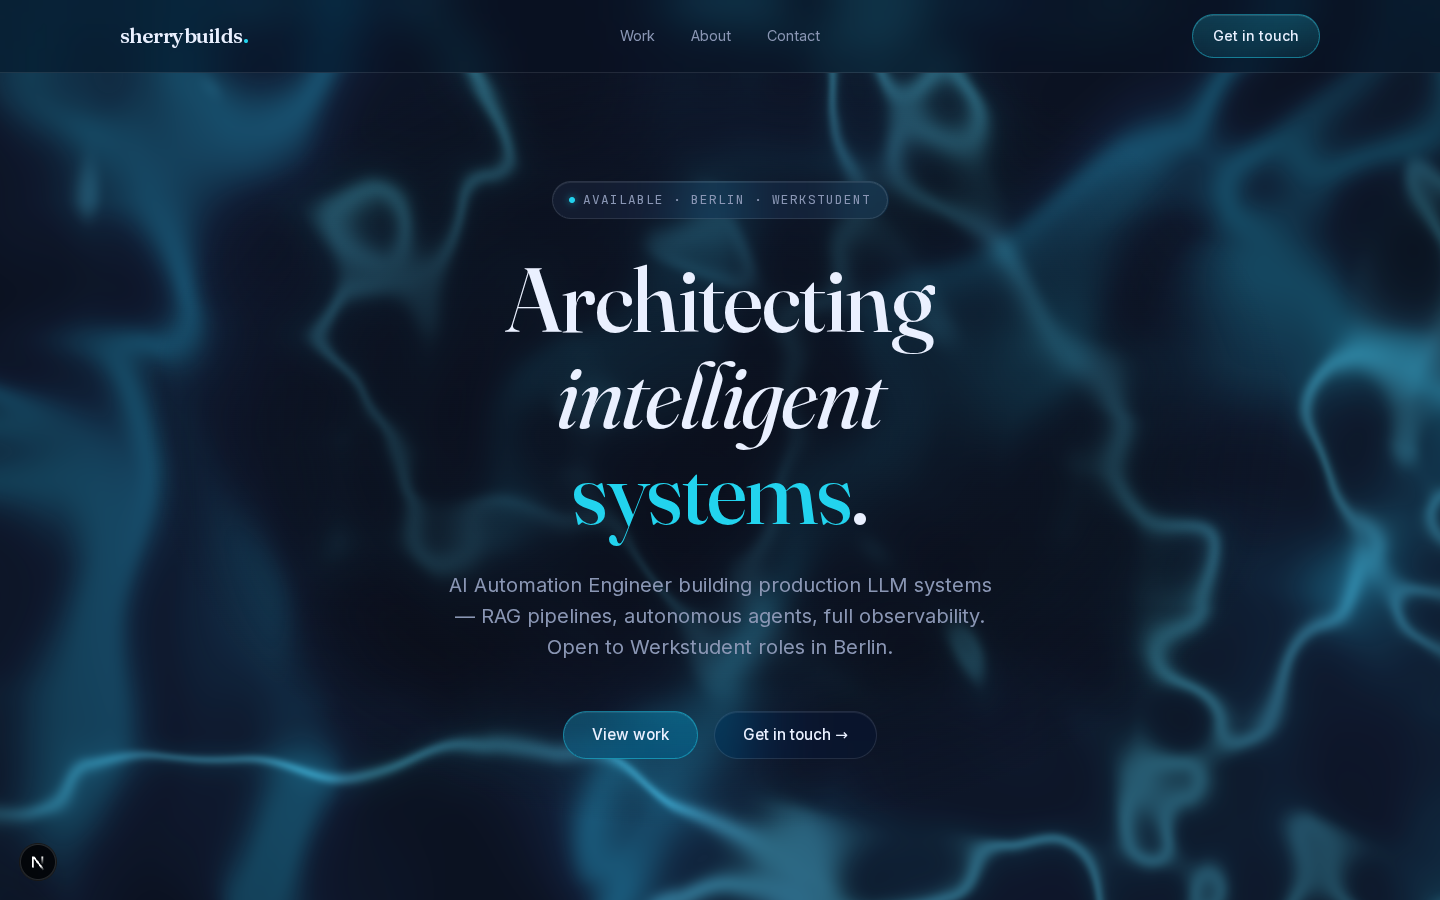
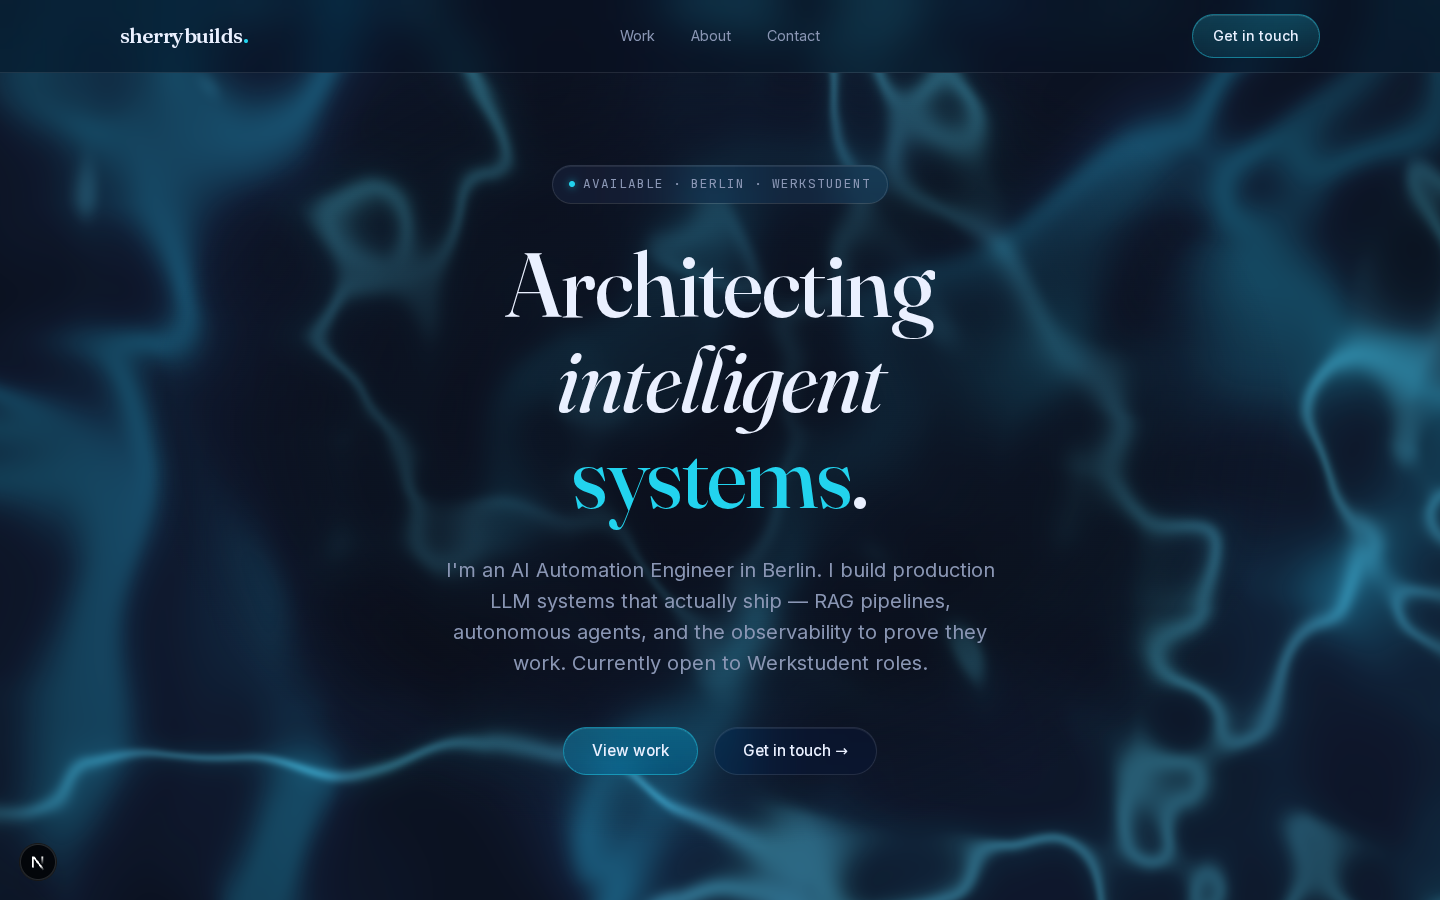
polish(portfolio-dark): humanized hero sub + button shine sweep
- Hero sub now first-person and warmer (exact copy provided): "I'm an
  AI Automation Engineer in Berlin. I build production LLM systems
  that actually ship — RAG pipelines, autonomous agents, and the
  observability to prove they work. Currently open to Werkstudent
  roles." Proper sentence case throughout.
- .pf-btn hover shine: a skewed diagonal specular band sweeps across
  the button surface once per hover-enter (0.65s, house ease, hover-
  capable devices only) — layered with the existing glow/lift; the
  global reduced-motion guard collapses it to imperceptible.

Verified: sweep confirmed via ::before computed animation (idle none →
sweeps -60%→130% on hover), captures updated, 0 console errors,
0 overflow, tsc + eslint clean.

diff --git a/src/app/globals.css b/src/app/globals.css
@@ -290,10 +290,43 @@
    :active covers touch taps; under reduced motion the transition collapses to
    an instant (static) state change via the global guard. */
 .portfolio-dark .pf-btn {
+  position: relative;
+  overflow: hidden; /* contains the shine sweep */
   transition:
     transform var(--dur-ui) var(--ease),
     box-shadow var(--dur-ui) var(--ease),
     border-color var(--dur-ui) var(--ease);
+}
+
+/* diagonal light-sweep: a skewed specular band crosses the surface once
+   per hover-enter; collapses to imperceptible under reduced motion via
+   the global animation guard */
+.portfolio-dark .pf-btn::before {
+  content: "";
+  position: absolute;
+  top: -20%;
+  bottom: -20%;
+  left: -60%;
+  width: 45%;
+  background: linear-gradient(105deg, rgba(255, 255, 255, 0) 0%, rgba(255, 255, 255, 0.22) 45%, rgba(255, 255, 255, 0.06) 65%, rgba(255, 255, 255, 0) 100%);
+  transform: skewX(-18deg);
+  opacity: 0;
+  pointer-events: none;
+}
+@media (hover: hover) {
+  .portfolio-dark .pf-btn:hover::before {
+    animation: pf-btn-shine 0.65s var(--ease);
+  }
+}
+@keyframes pf-btn-shine {
+  0% {
+    left: -60%;
+    opacity: 1;
+  }
+  100% {
+    left: 130%;
+    opacity: 1;
+  }
 }
 @media (hover: hover) {
   .portfolio-dark .pf-btn:hover {

diff --git a/src/components/portfolio-dark/DarkHero.tsx b/src/components/portfolio-dark/DarkHero.tsx
@@ -140,9 +140,10 @@ export default function DarkHero() {
               data-reveal=""
               style={{ fontSize: "var(--step-1)", color: "var(--muted)", lineHeight: 1.55 }}
             >
-              AI Automation Engineer building production LLM systems — RAG
-              pipelines, autonomous agents, full observability. Open to
-              Werkstudent roles in Berlin.
+              I&apos;m an AI Automation Engineer in Berlin. I build production
+              LLM systems that actually ship — RAG pipelines, autonomous
+              agents, and the observability to prove they work. Currently open
+              to Werkstudent roles.
             </p>
 
             {/* CTAs — cyan glass primary, glass-outline secondary */}
